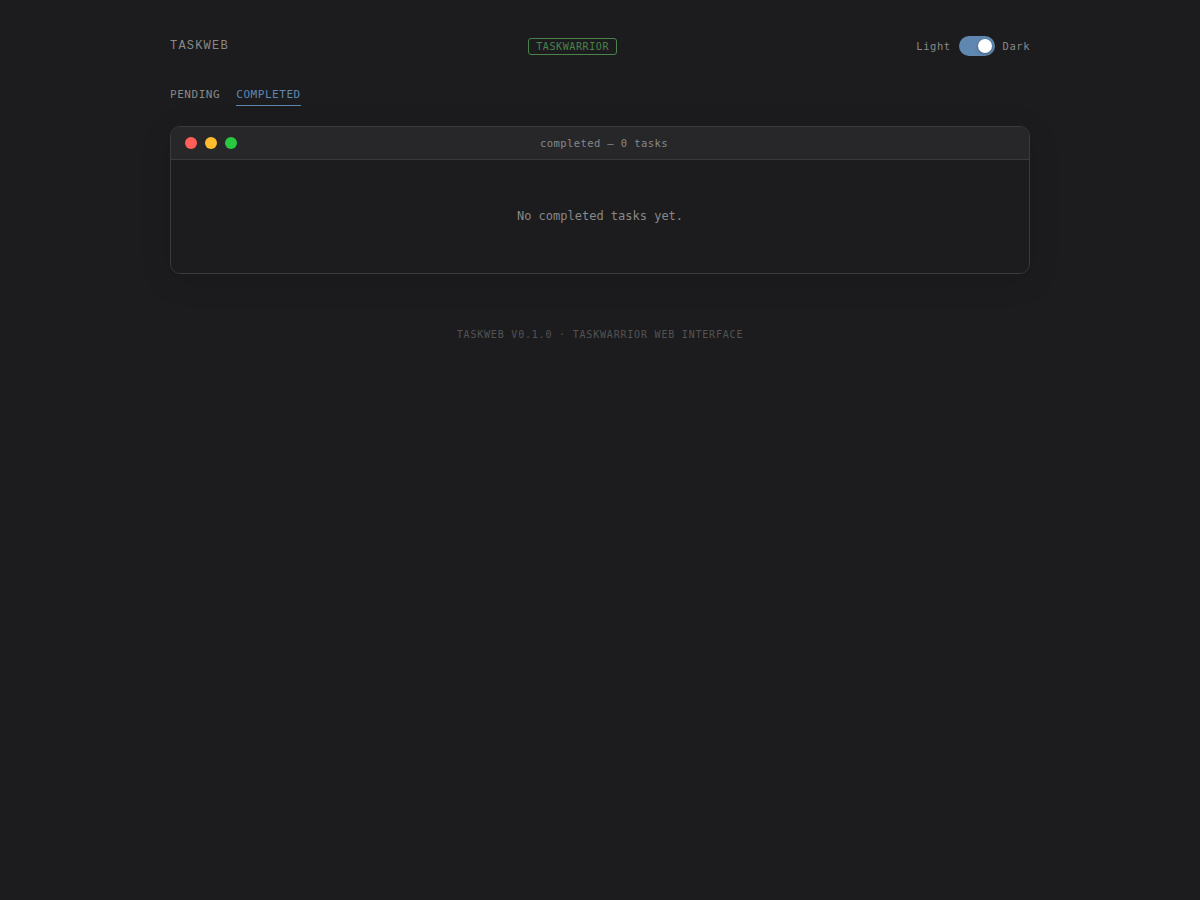
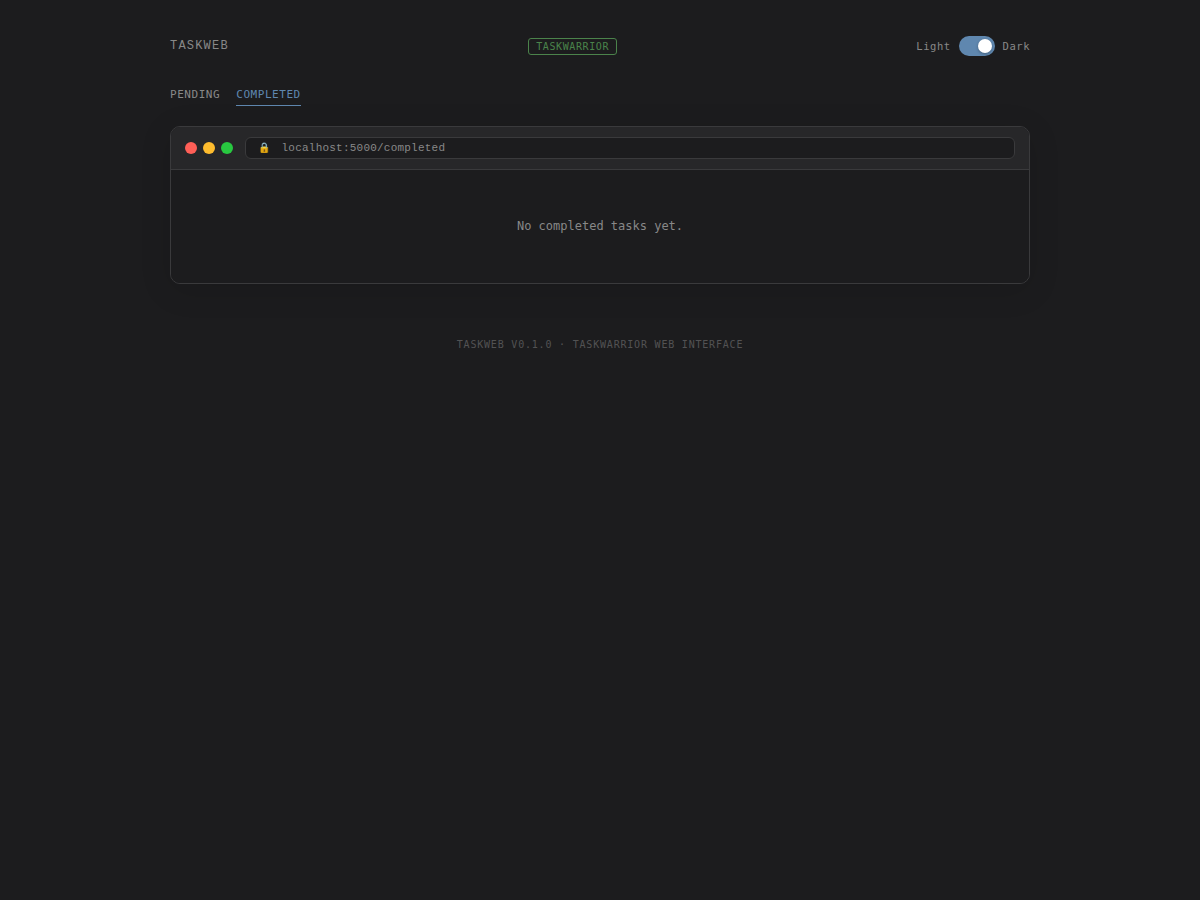
Replace macOS window chrome with browser address bar
Screenshots now show a web browser-style address bar with lock icon
and localhost URL instead of terminal-style window dots.

https://claude.ai/code/session_012mGDfxuuAfjA45JJnFLQ5S

diff --git a/taskweb/templates/index.html b/taskweb/templates/index.html
@@ -5,9 +5,8 @@
 <div class="add-form">
   <div class="window form-window">
     <div class="titlebar">
-      <div class="dot close"></div><div class="dot min"></div><div class="dot max"></div>
-      <div class="win-title">add task</div>
-      <div class="spacer"></div>
+      <div class="dots"><div class="dot close"></div><div class="dot min"></div><div class="dot max"></div></div>
+      <div class="address-bar"><span class="lock">🔒</span> localhost:5000/add</div>
     </div>
     <div class="content">
       <form method="POST" action="{{ url_for('add') }}">
@@ -67,9 +66,8 @@
 <!-- Task List -->
 <div class="window">
   <div class="titlebar">
-    <div class="dot close"></div><div class="dot min"></div><div class="dot max"></div>
-    <div class="win-title">task next — {{ counts.pending }} pending{% if counts.overdue %} · <span style="color:var(--tw-due)">{{ counts.overdue }} overdue</span>{% endif %}</div>
-    <div class="spacer"></div>
+    <div class="dots"><div class="dot close"></div><div class="dot min"></div><div class="dot max"></div></div>
+    <div class="address-bar"><span class="lock">🔒</span> localhost:5000{% if current_project %}?project={{ current_project }}{% elif current_tag %}?tag={{ current_tag }}{% endif %}</div>
   </div>
   <div class="content">
     {% if tasks %}

diff --git a/taskweb/static/style.css b/taskweb/static/style.css
@@ -155,8 +155,14 @@ nav a.active {
   padding: 10px 14px;
   display: flex;
   align-items: center;
-  gap: 8px;
+  gap: 12px;
   transition: background .2s, border-color .2s;
+}
+
+.dots {
+  display: flex;
+  gap: 6px;
+  flex-shrink: 0;
 }
 
 .dot { width: 12px; height: 12px; border-radius: 50% }
@@ -164,16 +170,25 @@ nav a.active {
 .dot.min { background: #febc2e }
 .dot.max { background: #28c840 }
 
-.win-title {
+.address-bar {
   flex: 1;
-  text-align: center;
-  font-family: 'SF Mono', monospace;
-  font-size: 10.5px;
+  background: var(--bg);
+  border: 1px solid var(--border);
+  border-radius: 6px;
+  padding: 4px 12px;
+  font-family: 'SF Mono', 'Menlo', 'Monaco', 'Courier New', monospace;
+  font-size: 11px;
   color: var(--dim);
-  letter-spacing: .04em;
+  letter-spacing: .02em;
+  white-space: nowrap;
+  overflow: hidden;
+  text-overflow: ellipsis;
 }
 
-.spacer { width: 44px }
+.lock {
+  font-size: 10px;
+  margin-right: 4px;
+}
 
 /* Content area */
 .content {

diff --git a/taskweb/templates/completed.html b/taskweb/templates/completed.html
@@ -5,9 +5,8 @@
 {% block content %}
 <div class="window">
   <div class="titlebar">
-    <div class="dot close"></div><div class="dot min"></div><div class="dot max"></div>
-    <div class="win-title">completed — {{ counts.completed }} tasks</div>
-    <div class="spacer"></div>
+    <div class="dots"><div class="dot close"></div><div class="dot min"></div><div class="dot max"></div></div>
+    <div class="address-bar"><span class="lock">🔒</span> localhost:5000/completed</div>
   </div>
   <div class="content">
     {% if tasks %}
